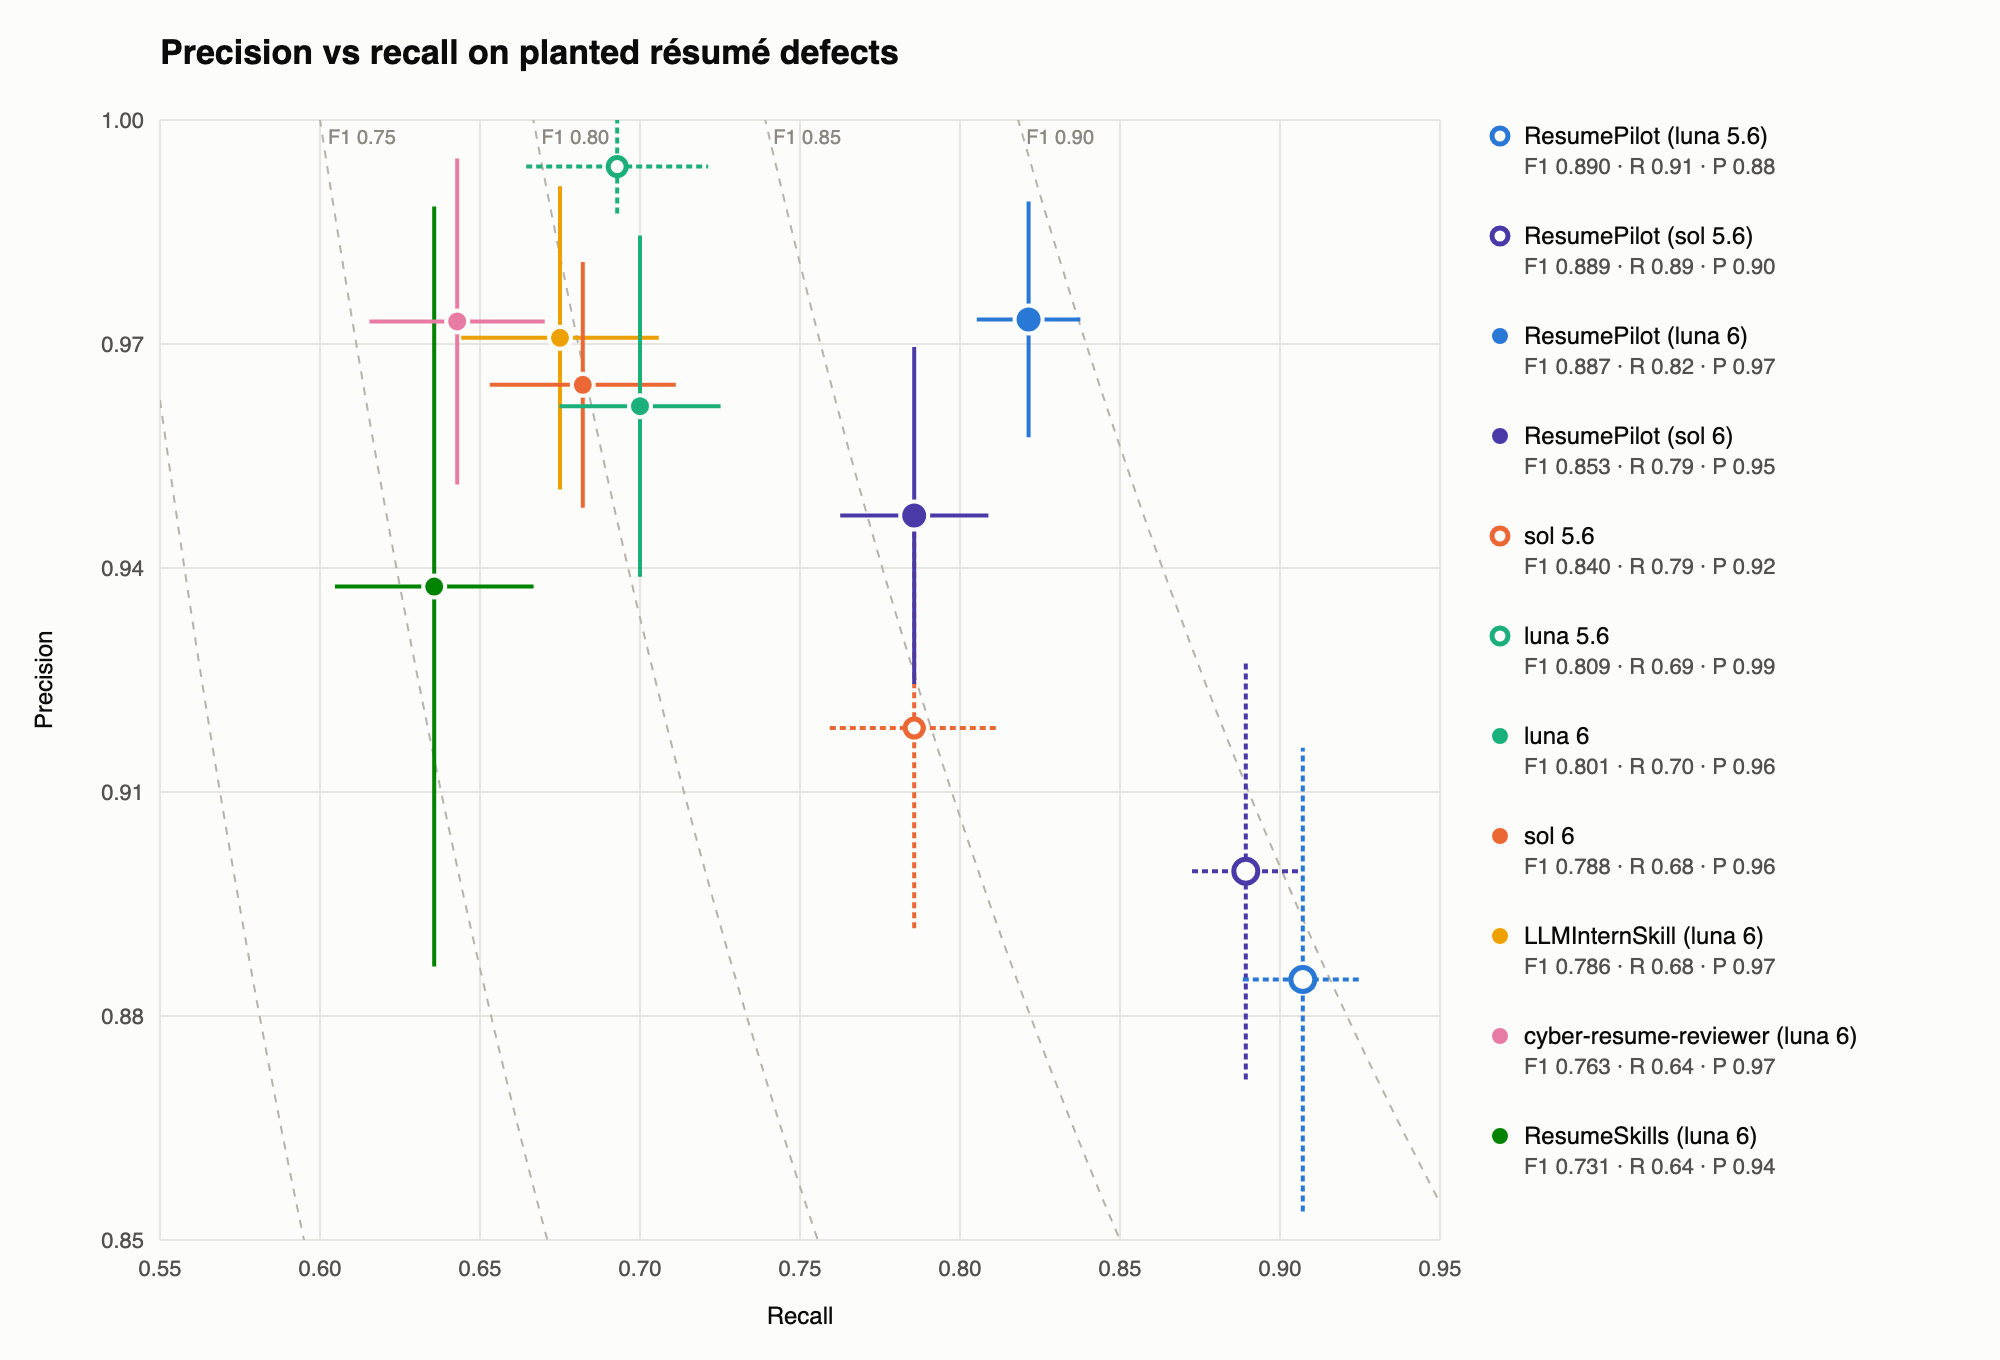
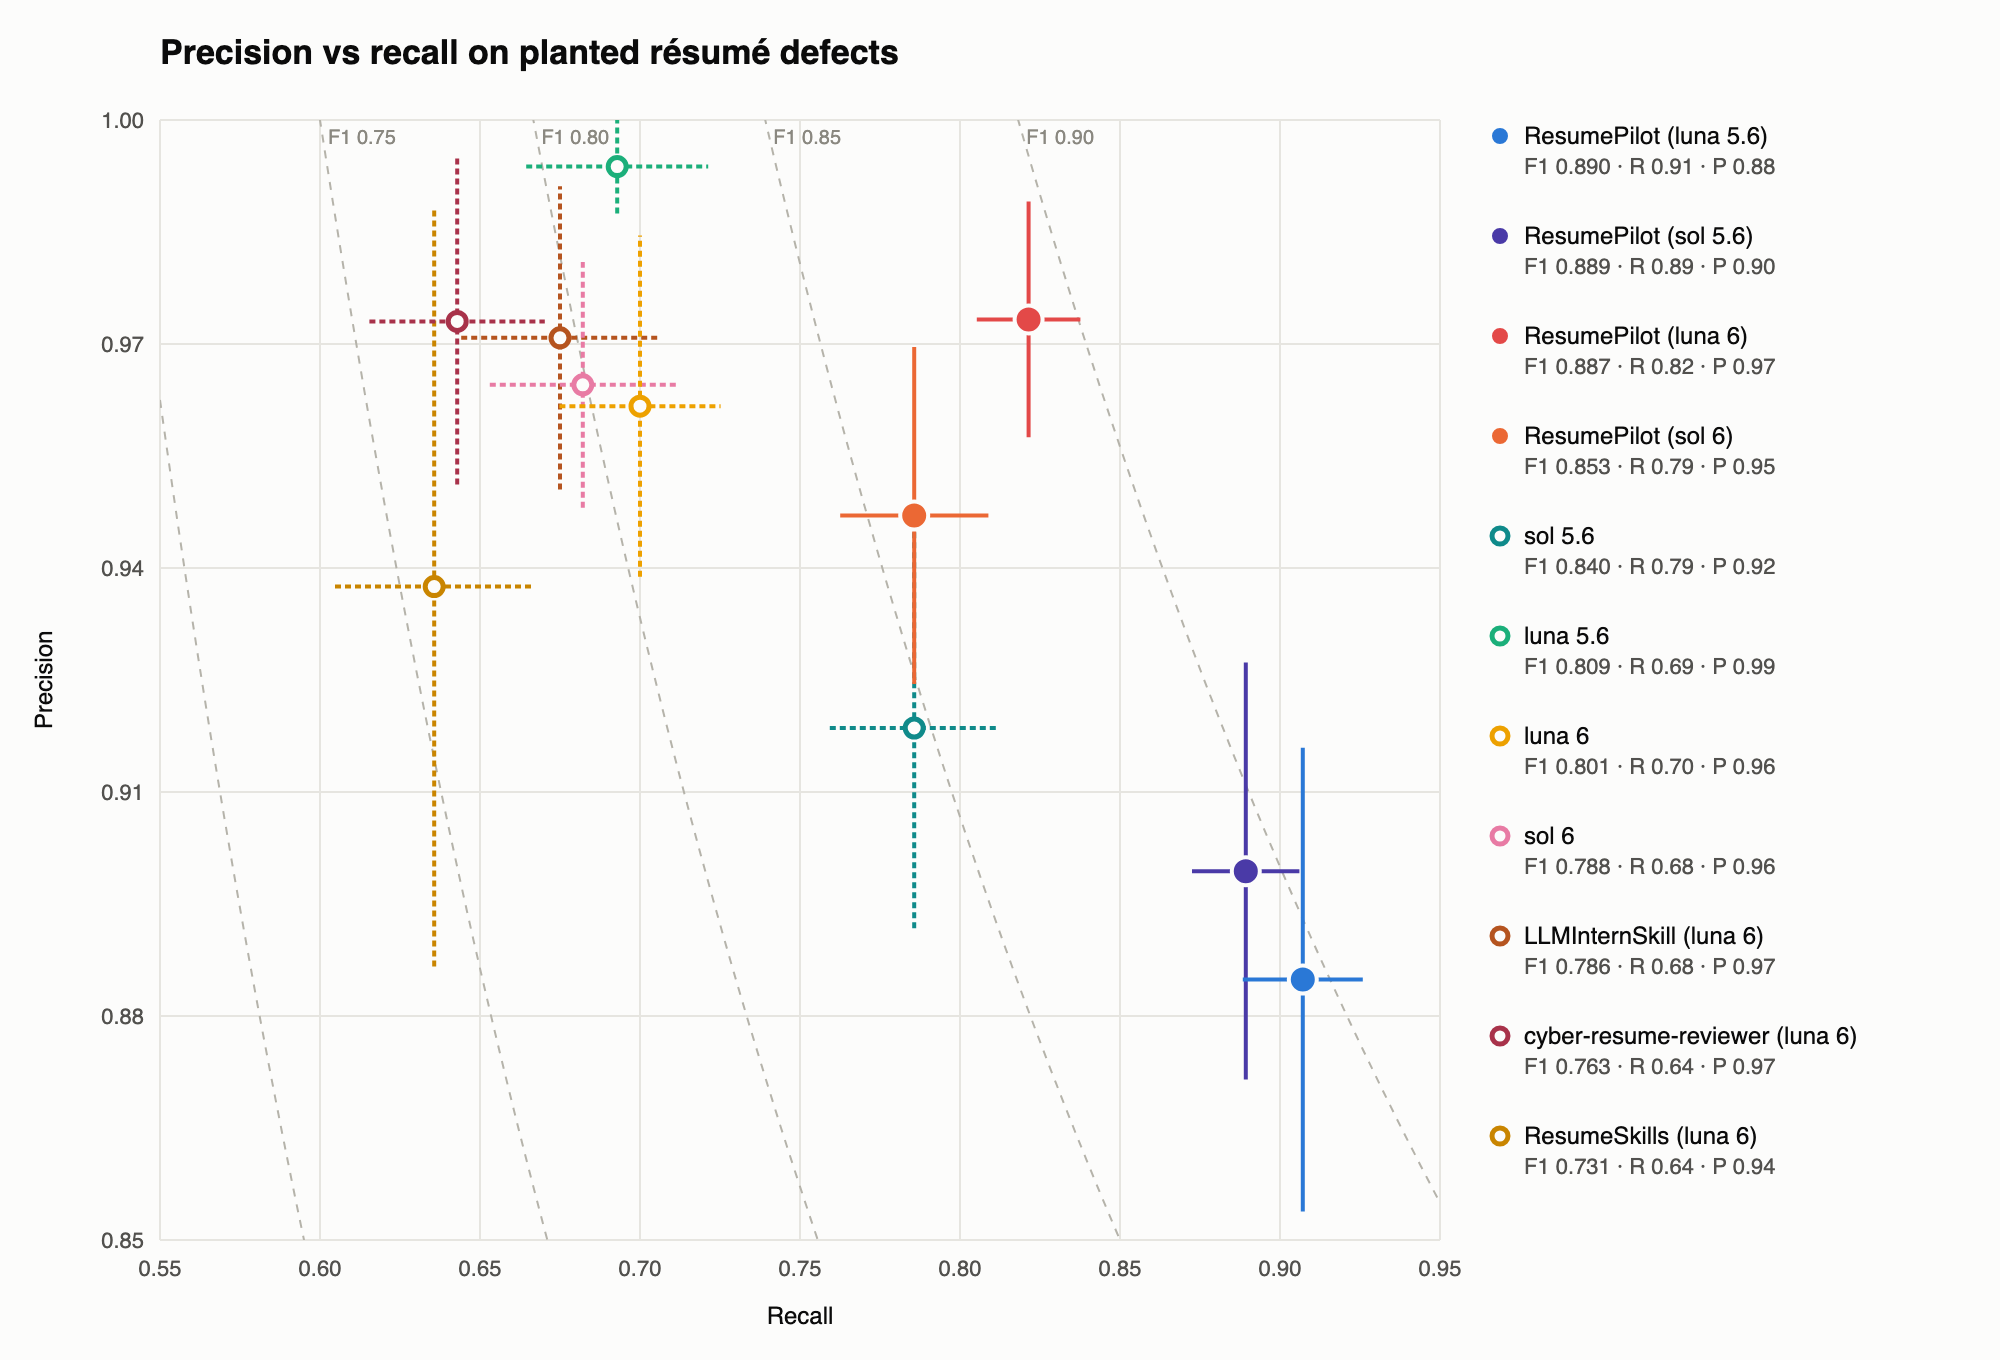
change: chart colours by model generation, ResumePilot solid and filled, others dashed and hollow

diff --git a/bench/planted-defects/blind/six/draw_pr.py b/bench/planted-defects/blind/six/draw_pr.py
@@ -9,10 +9,15 @@ s = json.loads((HERE / 'pr-summary.json').read_text())
 names = {'A': 'ResumePilot (luna 6)', 'L': 'ResumePilot (luna 5.6)', 'S': 'ResumePilot (sol 6)', 'M': 'ResumePilot (sol 5.6)',
          'I': 'sol 5.6', 'H': 'luna 5.6', 'B': 'luna 6', 'C': 'sol 6', 'G': 'LLMInternSkill (luna 6)',
          'E': 'cyber-resume-reviewer (luna 6)', 'F': 'ResumeSkills (luna 6)'}
-col = {'A': '#2a78d6', 'L': '#2a78d6', 'S': '#4a3aa7', 'M': '#4a3aa7', 'C': '#eb6834', 'I': '#eb6834',
-       'B': '#1baf7a', 'H': '#1baf7a', 'G': '#eda100', 'E': '#e87ba4', 'F': '#008300'}
-hollow = {'H', 'I', 'L', 'M'}
-big = {'A', 'L', 'S', 'M'}
+# Colour says the model generation: GPT-5.6 in cool hues, GPT-6 in warm ones.
+# Line and fill say whose it is: ResumePilot solid and filled, everything
+# else dashed and hollow.
+col = {'L': '#2a78d6', 'M': '#4a3aa7', 'H': '#1baf7a', 'I': '#0f8a8a',
+       'A': '#e34948', 'S': '#eb6834', 'B': '#eda100', 'C': '#e87ba4',
+       'G': '#b5541f', 'E': '#a8324a', 'F': '#c98500'}
+ours = {'A', 'L', 'S', 'M'}
+hollow = set(names) - ours
+big = ours
 W, H = 1000, 680
 L, R, T, B = 80, 280, 60, 60
 x0, x1, y0, y1 = 0.55, 0.95, 0.85, 1.00
